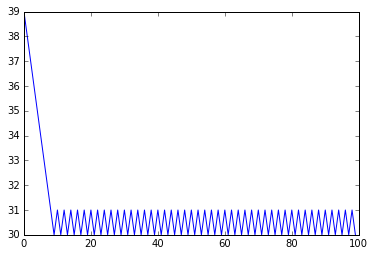
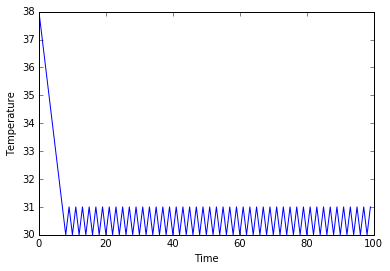
Add files via upload

Changed region(s): [[0.0, 0.0, 0.9973, 0.9688]]

diff --git a/Bees - Importance of genetic diversity/Bees2.py b/Bees - Importance of genetic diversity/Bees2.py
@@ -1,0 +1,68 @@
+#Bees
+import numpy as np
+from matplotlib import pyplot as plt
+
+HiveT = 30
+
+class Bees:
+    def __init__(self,dist):
+        self.dist = dist
+        if self.dist:
+            self.gtI = np.random.normal(loc = 30.12311, scale = 6) #genetic threshold
+        else:
+            self.gtI = 30.12311
+
+    def HorC(self,HT):
+        self.heat = False
+        self.cool = False
+        self.stay = True
+
+        if HT > self.gtI:
+            self.cool = True
+
+        if HT < self.gtI:
+            self.heat = True
+
+        if HT == self.gtI:
+            self.stay = True
+            self.cool = False
+            self.heat = False
+
+
+#SET ranno to False for NO genetic variety
+#SET ranno to True for genetic variety
+#OBSERVE the lack of stability when there is lack of genetic variety
+
+def trial(iterations,ranno,HiveT): #look at the amount of bees cooling and heating, and then cahnge the Hivetemeprature accrodingl
+    BeeNum = 100.
+    Tray = np.array([])
+    Hive = [Bees(ranno) for i in np.arange(BeeNum)]
+
+    for i in np.arange(iterations):
+        for bee in Hive:
+            bee.HorC(HiveT)
+
+        Heaters = [bee.heat for bee in Hive]
+        Coolers = [bee.cool for bee in Hive]
+
+        #print(Heaters, Coolers,HiveT)
+
+        heatp = np.count_nonzero(Heaters)
+        coolp = np.count_nonzero(Coolers)
+
+        #print(heatp,coolp)
+        HiveT = HiveT + heatp/BeeNum - coolp/BeeNum
+        Tray = np.append(Tray,HiveT)
+        #print(HiveT)
+    plt.plot(Tray)
+    plt.xlabel('Time')
+    plt.ylabel('Temperature')
+    plt.show()
+
+
+
+
+
+
+
+
